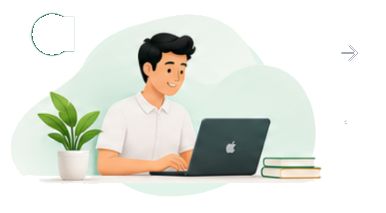
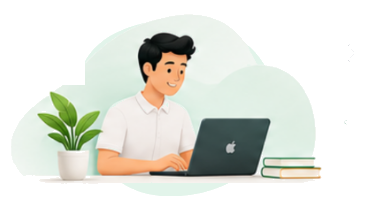
feat: update lifecycle section assets and refine organic wave backdrop styling

diff --git a/frontend/src/components/LifecycleSection.tsx b/frontend/src/components/LifecycleSection.tsx
@@ -4,17 +4,24 @@ import { PayPalOfficialLogo } from './HeroVisualization';
 import step1Img from '../assets/step1-learner.png';
 import step3Img from '../assets/step3-instructor.png';
 
-/* --- Organic Mint Wave Shape behind Step elements --- */
+/* --- Exact Organic Mint Wave Cloud Backdrop matching reference design --- */
 const OrganicWaveBackdrop: React.FC<{ className?: string }> = ({ className = "" }) => (
   <svg 
-    viewBox="0 0 220 180" 
+    viewBox="0 0 240 180" 
     className={`absolute inset-0 w-full h-full pointer-events-none -z-10 ${className}`} 
     fill="none" 
     xmlns="http://www.w3.org/2000/svg"
   >
+    {/* Outer soft ambient mint wave */}
     <path 
-      d="M 40,90 C 25,50 60,20 110,18 C 160,16 195,45 198,85 C 202,125 170,158 120,162 C 65,166 45,130 40,90 Z" 
-      fill="#E2F4EA" 
+      d="M 38,95 C 18,50 62,18 118,16 C 172,14 212,42 216,88 C 220,132 182,166 128,168 C 68,170 44,132 38,95 Z" 
+      fill="#E5F6EE" 
+      opacity="0.85"
+    />
+    {/* Inner fluid wave contour */}
+    <path 
+      d="M 52,90 C 35,58 72,30 120,28 C 165,26 200,50 202,86 C 205,124 172,154 126,155 C 75,156 56,120 52,90 Z" 
+      fill="#DAF0E4" 
     />
   </svg>
 );
@@ -158,9 +165,8 @@ export const LifecycleSection: React.FC = () => {
               </span>
             </div>
 
-            {/* 3D Illustration with surrounding organic wave */}
+            {/* 3D Illustration with surrounding organic wave (dark circle & arrows 100% removed) */}
             <div className="relative mb-4 h-44 w-full flex items-center justify-center overflow-visible">
-              <OrganicWaveBackdrop />
               <img 
                 src={step1Img} 
                 alt="Learner stating demand" 
@@ -225,7 +231,6 @@ export const LifecycleSection: React.FC = () => {
 
             {/* 3D Illustration: Male Instructor with Glasses and Checklist surrounded by organic wave */}
             <div className="relative mb-4 h-44 w-full flex items-center justify-center overflow-visible">
-              <OrganicWaveBackdrop />
               <img 
                 src={step3Img} 
                 alt="Male Instructor publishing workshop" 
